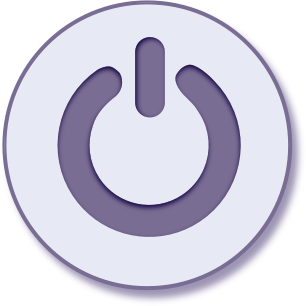
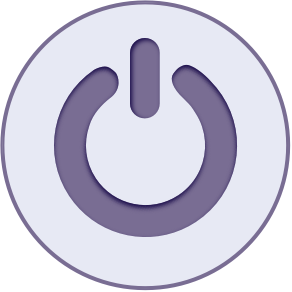
Update button images to remove baked in drop-shadow.

diff --git a/app-shared/lib/pages/connect/connect_button.dart b/app-shared/lib/pages/connect/connect_button.dart
@@ -132,8 +132,8 @@ class ConnectButtonState extends State<ConnectButton>
         // connect button
         Container(
           child: FlatButton(
-            splashColor: Colors.transparent,
-            highlightColor: Colors.transparent,
+            //splashColor: Colors.transparent,
+            //highlightColor: Colors.transparent,
             child: buttonImage,
             onPressed: enabled ? widget.onConnectButtonPressed : null,
             shape: new CircleBorder(),
